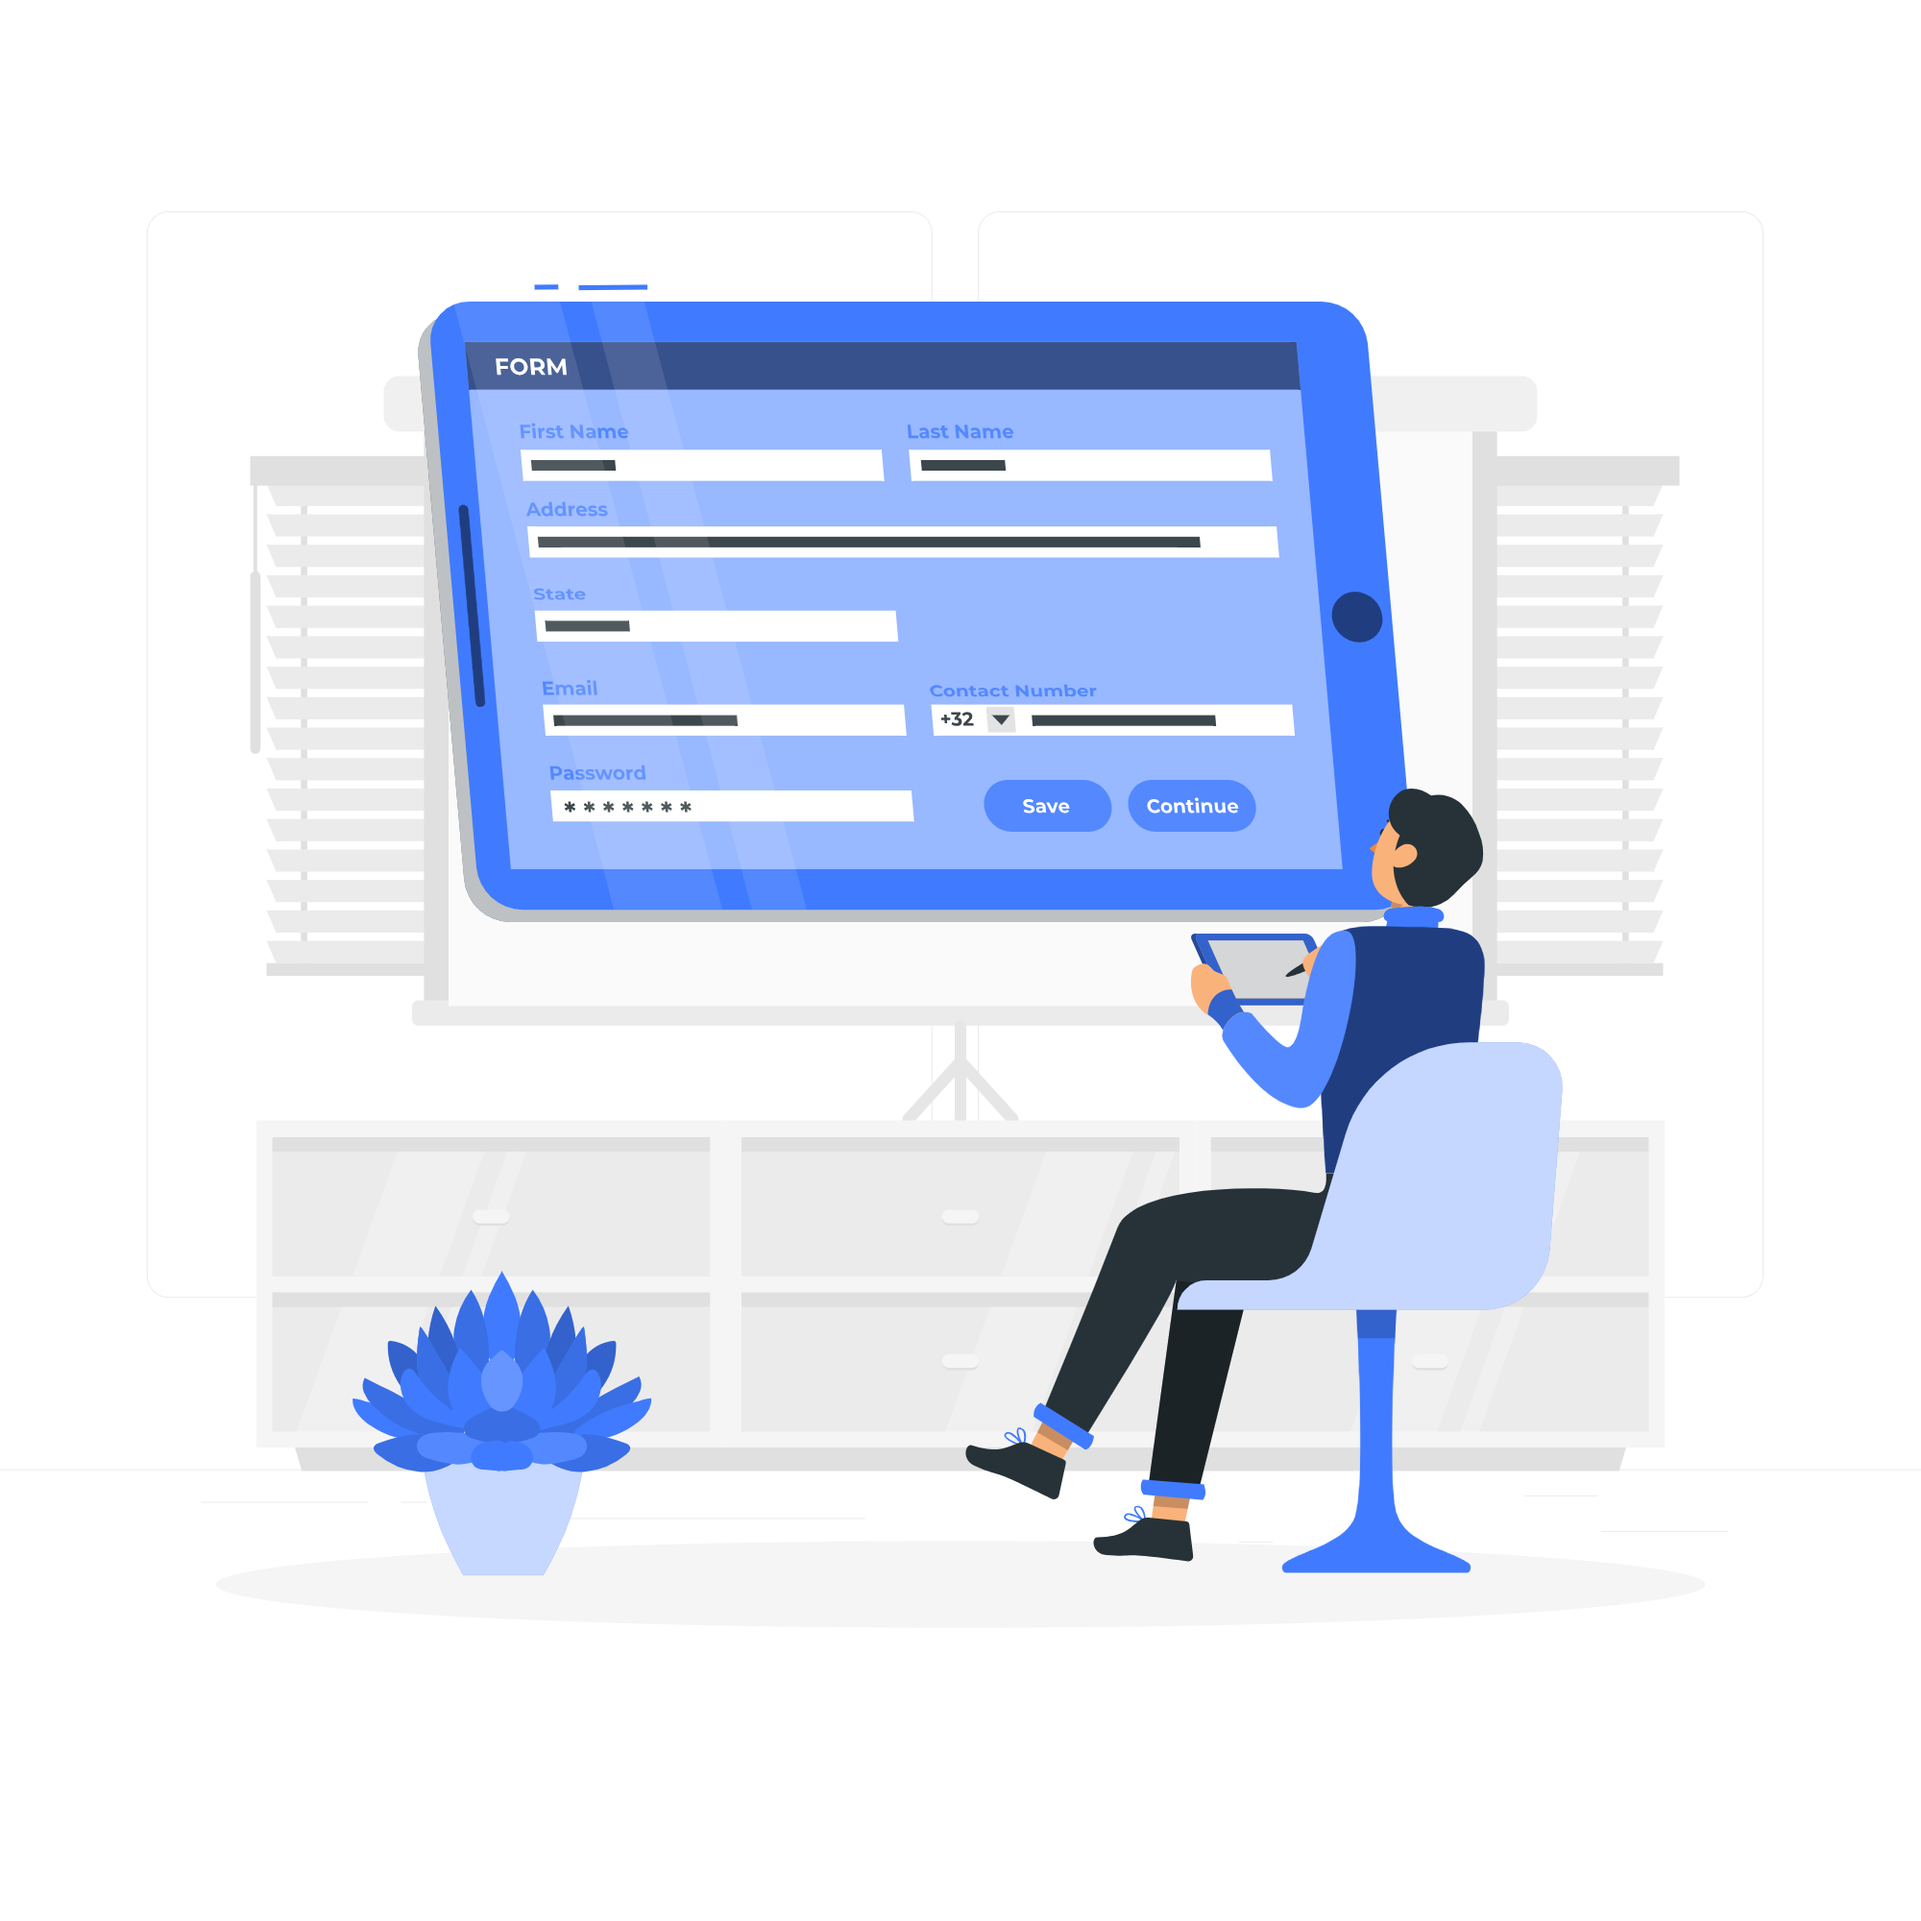
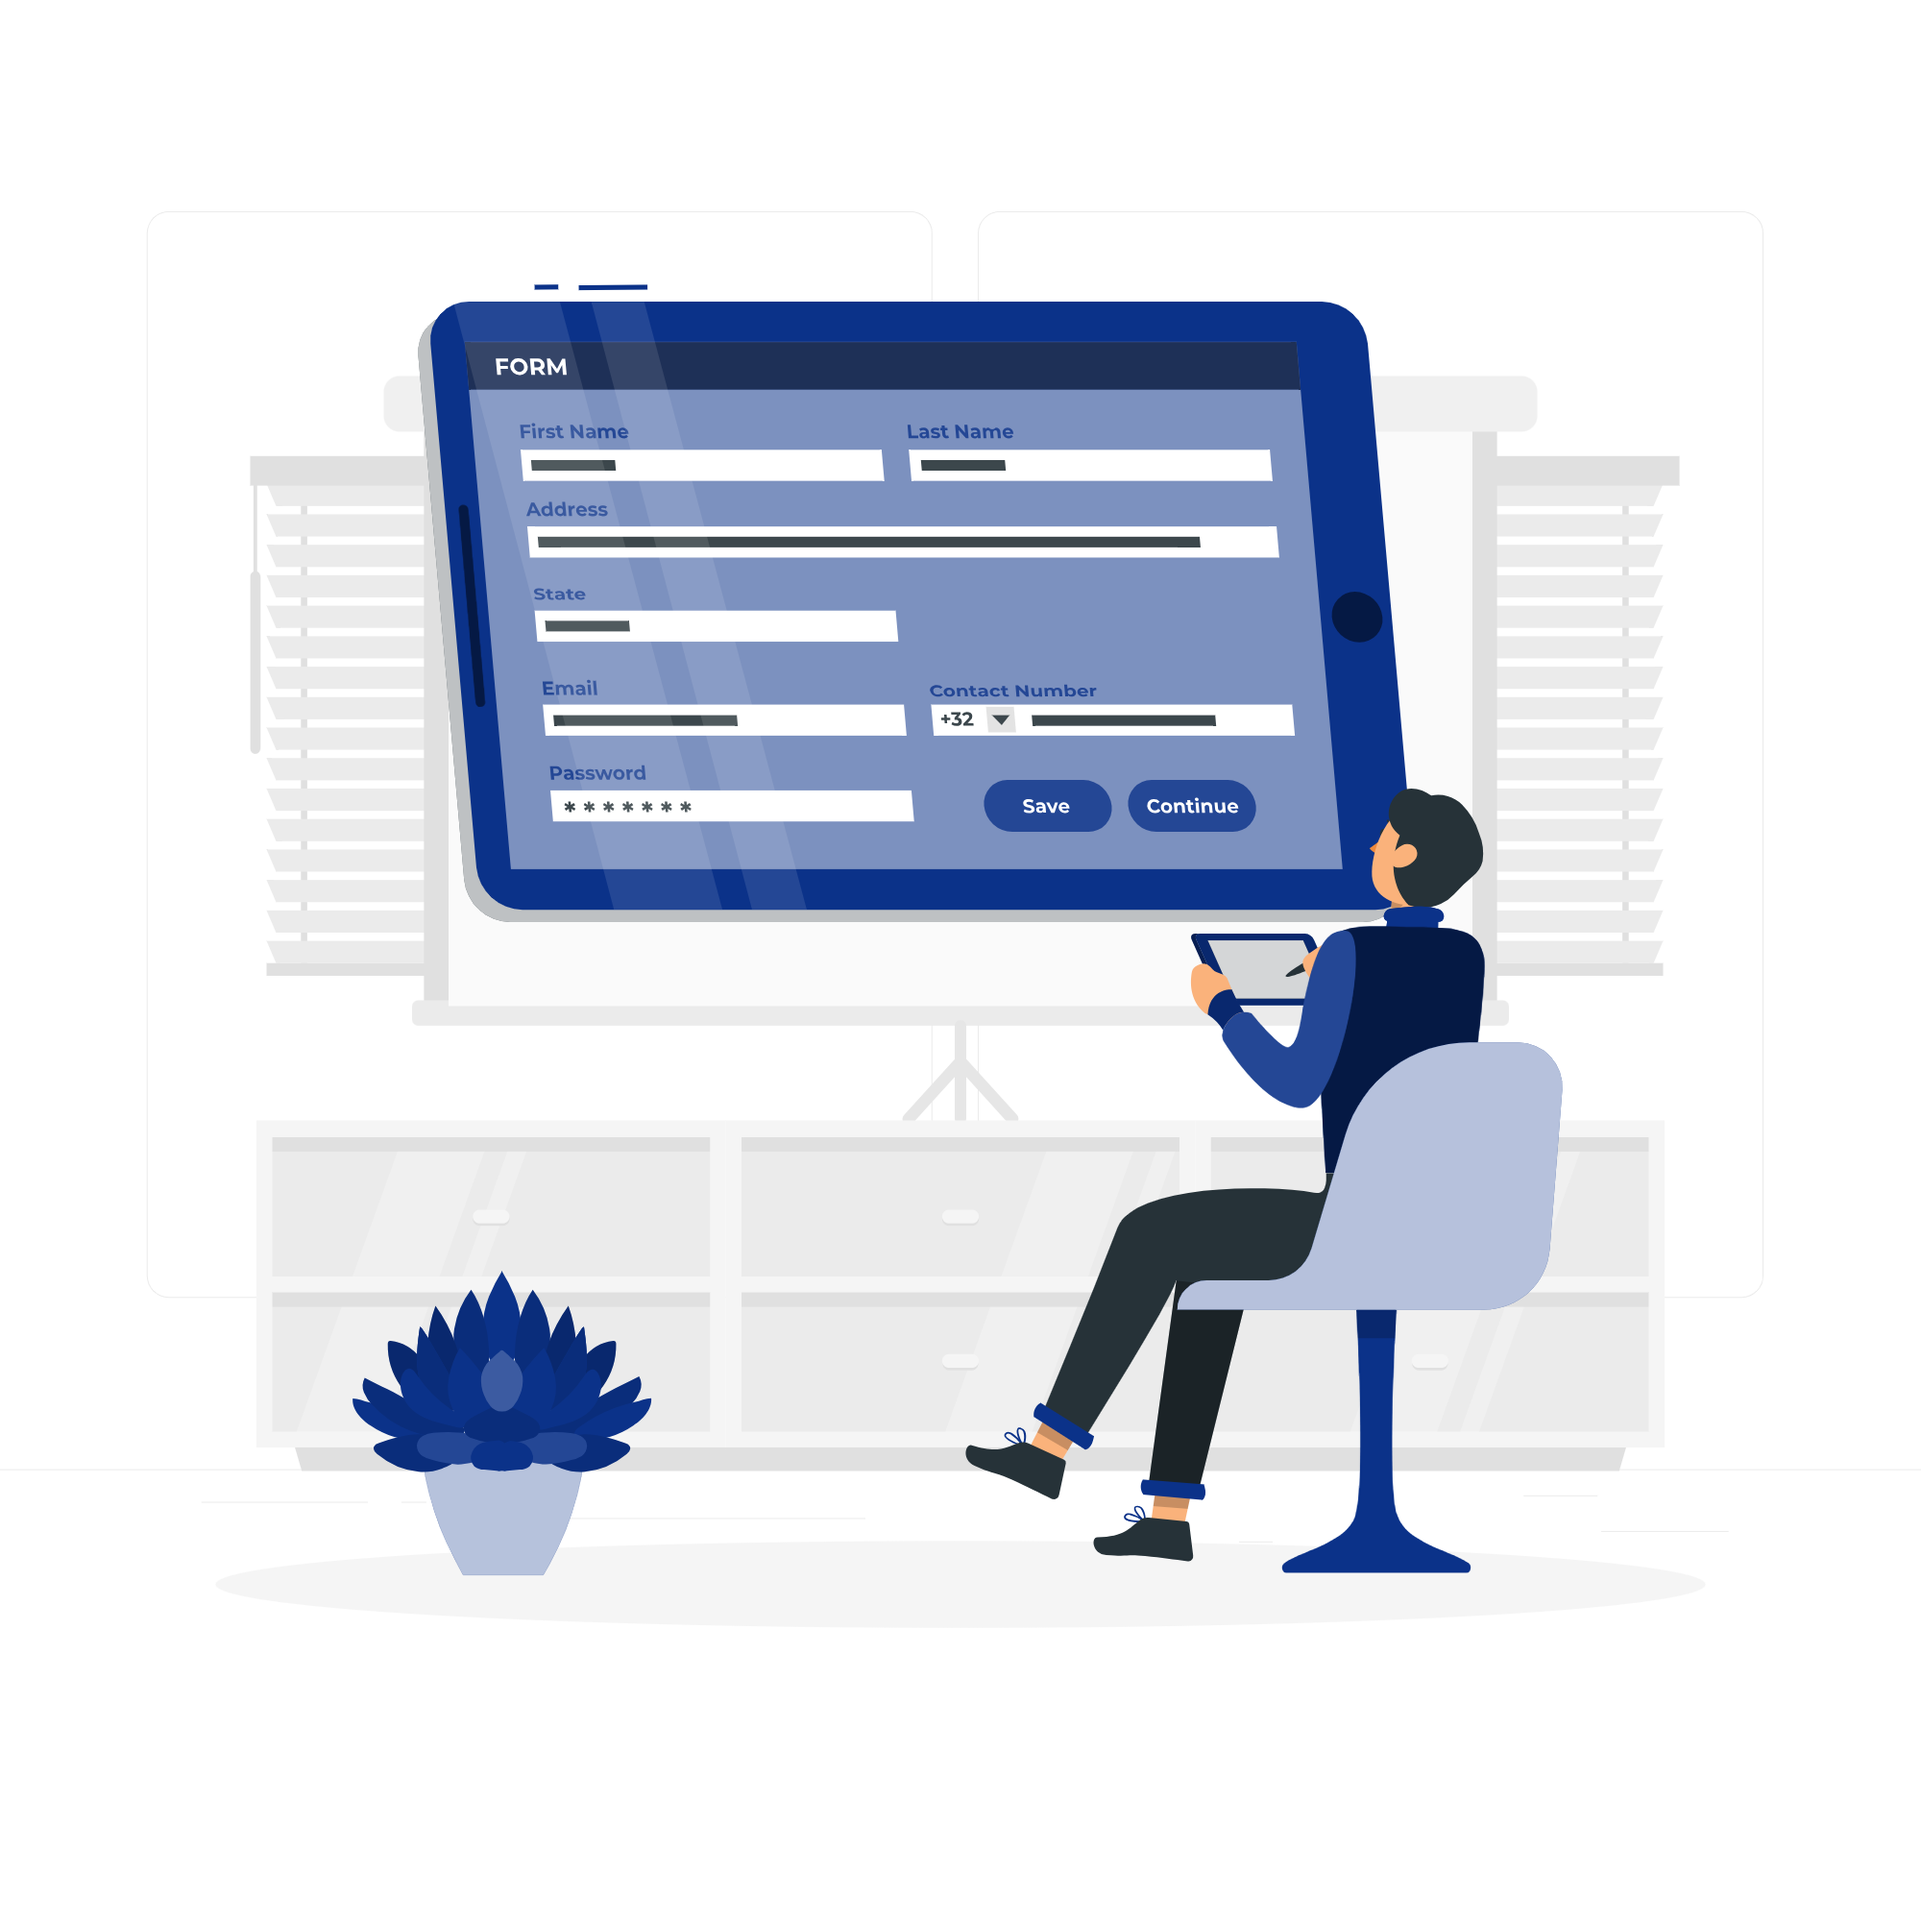
make the responsive part

diff --git a/frontend/src/css/style.css b/frontend/src/css/style.css
@@ -16,7 +16,7 @@ body {
   display: flex;
   align-items: center;
   justify-content: center;
-  background: linear-gradient(-50deg, #ffff, #ffff, #ffff, #ffff, #407bff);
+  background: linear-gradient(-50deg, #ffff, #ffff, #ffff, #ffff, #0B3289);
   height: 80vh;
   padding: 10% 10%;
   padding-left: 15%;
@@ -44,7 +44,7 @@ body {
   list-style: none;
   text-decoration: none;
   /* background: #47d50f; */
-  background: #407bff;
+  background: #0B3289;
   color: #ffff;
   padding: 12px 24px;
   font-size: 1rem;
@@ -123,7 +123,7 @@ body {
   color: #000;
   border-radius: 2px;
   /* border-bottom: 2px solid #47d50f; */
-  border-bottom: 2px solid #407bff;
+  border-bottom: 2px solid #0B3289;
 }
 
 .speakers,
@@ -229,13 +229,10 @@ body {
   display: flex;
 }
 
-.input-div {
-  /* width: 10%; */
-}
 
 .submit-button {
   /* background: #47d50f; */
-  background: #407bff;
+  background: #0B3289;
   color: white;
   width: 50%;
   margin-top: 30px;
@@ -263,12 +260,12 @@ body {
 .header-content {
   background: linear-gradient(
     50deg,
-    #407bff,
+    #0B3289,
     #ffff,
     #ffff,
     #ffff,
     #ffff,
-    #407bff
+    #0B3289
   );
   height: 1vh;
   padding: 4%;
@@ -336,7 +333,7 @@ nav {
 }
 
 .nav-item-menu .nav-item:hover {
-  border-bottom: 2px solid #407bff;
+  border-bottom: 2px solid #0B3289;
   color: #000;
 }
 
@@ -407,7 +404,7 @@ nav {
   border-radius: 10px;
   box-shadow: 0px 4px 10px rgba(0, 0, 0, 0.1);
   text-align: center;
-  margin-right: 10%;
+  margin-right: 20%;
 }
 
 .login-form h2 {

diff --git a/frontend/src/css/media.query.css b/frontend/src/css/media.query.css
@@ -33,10 +33,10 @@
     flex-direction: column;
     text-align: center;
     margin-top: 20%;
+    position: relative;
   }
 
   .hero-content {
-    /* margin-top: 20%; */
     margin-bottom: 20px;
   }
 
@@ -71,16 +71,25 @@
     display: block;
   }
 
-  .form-card {
+  .form-card form {
     display: block;
+    flex-direction: row;
     padding: 10px;
   }
 
-  .form-grid{
-    /* display: block; */
+  .form-grid {
+    /* padding: 10px; */
+    margin: 0;
+    grid-template-columns: none;
   }
 
-  .form-group {
-    display: block;
+  .form-image img {
+    display: none;
+  }
+
+  .submit-button {
+    width: 150%;
+    margin: 0px auto;
+    margin-left: 100%;
   }
 }
